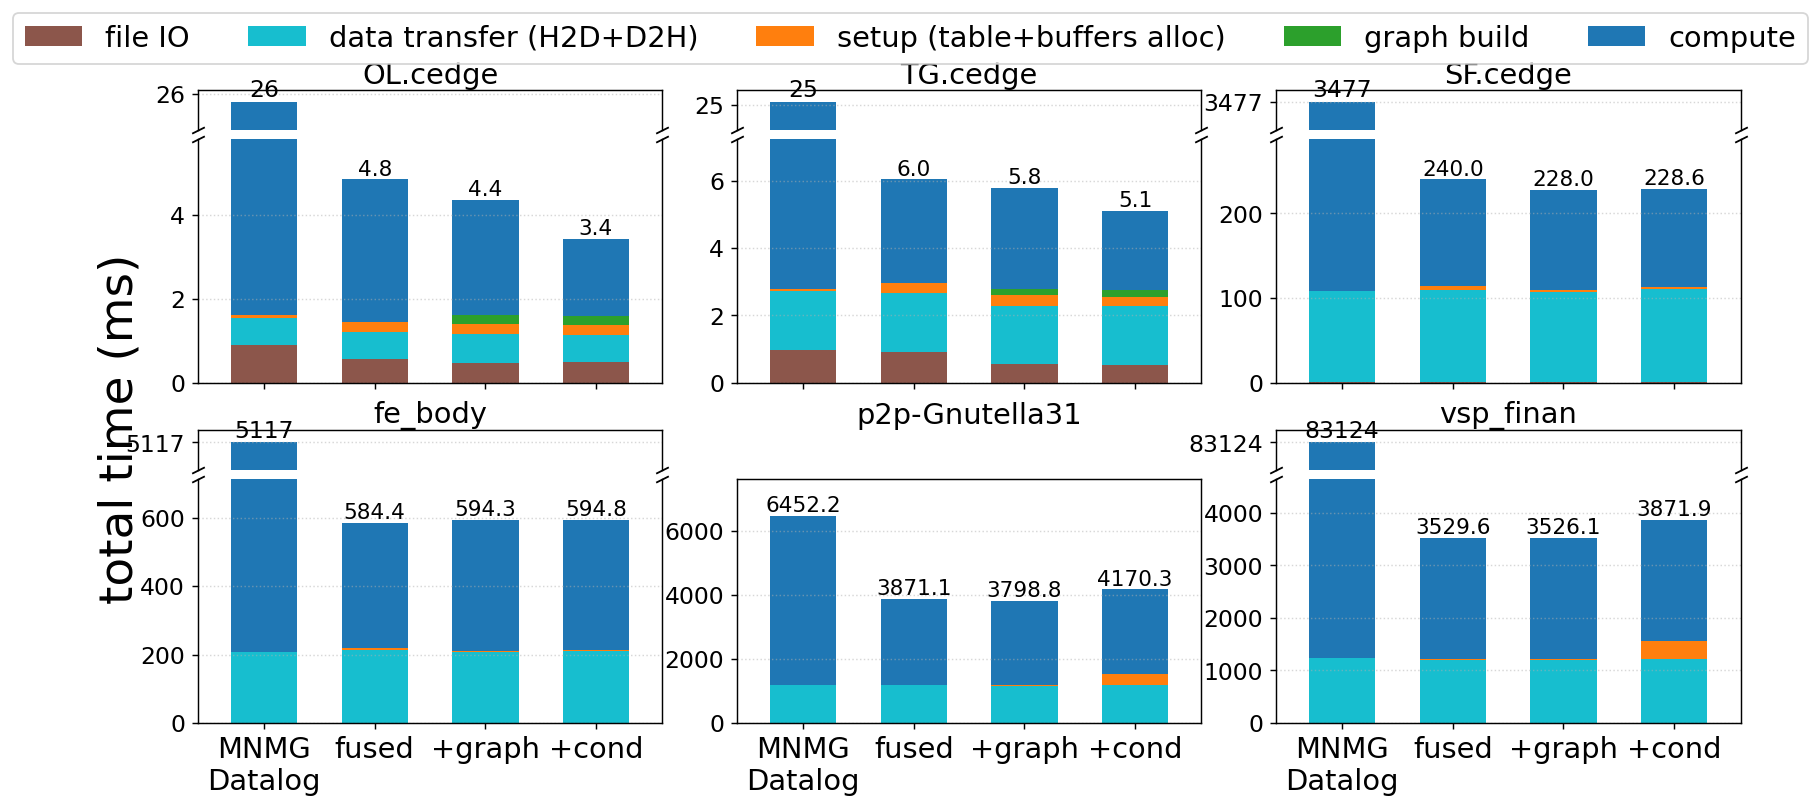
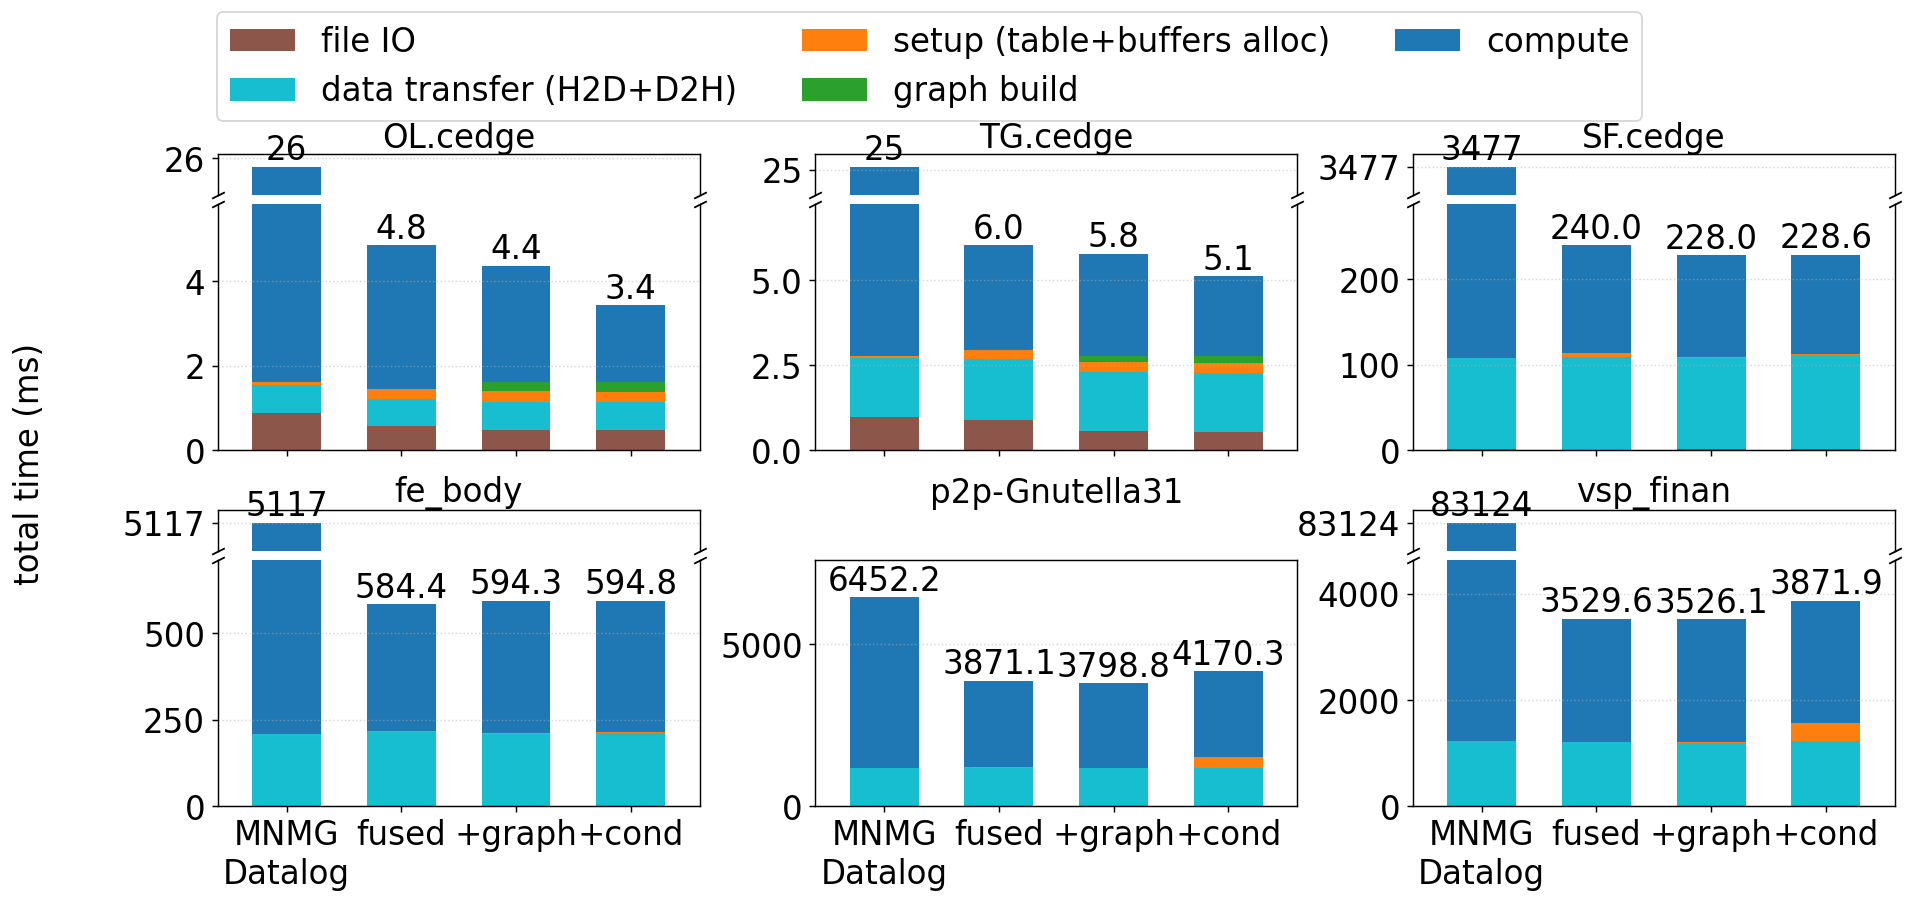
breakdown chart: uniform 18pt fonts, fix y-label/legend overlap

diff --git a/tc_benchmark/tests/plot_results.py b/tc_benchmark/tests/plot_results.py
@@ -168,13 +168,16 @@ def plot_breakdown(datasets, rows, outpath, versions):
     # versions), tight spacing to avoid whitespace.
     # Panel grid: default 3 columns (override with BD_NCOL) => a clean 2x3 for the
     # six datasets. Rendered as a full-width figure* in the paper.
+    FS = 18  # one uniform font size for every text element in this figure
     ncol_env = os.environ.get("BD_NCOL")
     dcol = int(ncol_env) if ncol_env else min(3, len(datasets))
     dcol = max(1, min(dcol, len(datasets)))
     drow = (len(datasets) + dcol - 1) // dcol
-    fig = plt.figure(figsize=(4.3 * dcol, 2.9 * drow))
-    outer = fig.add_gridspec(drow, dcol, hspace=0.16, wspace=0.16,
-                             left=0.075, right=0.995, top=0.95, bottom=0.11)
+    fig = plt.figure(figsize=(5.0 * dcol, 3.3 * drow))
+    # Leave room on the left for the (large) y-axis label + tick numbers, and at the
+    # top for the legend so neither overlaps the panels.
+    outer = fig.add_gridspec(drow, dcol, hspace=0.20, wspace=0.24,
+                             left=0.135, right=0.995, top=0.86, bottom=0.10)
 
     legend_handles = None
     for idx, d in enumerate(datasets):
@@ -207,7 +210,7 @@ def plot_breakdown(datasets, rows, outpath, versions):
         for ax in (top, bot):
             ax.set_xlim(-0.6, len(vers) - 0.4)
             ax.grid(axis="y", ls=":", alpha=0.5)
-            ax.tick_params(labelsize=13)
+            ax.tick_params(labelsize=FS)
 
         if broken:
             bot.set_ylim(0, low)
@@ -226,7 +229,7 @@ def plot_breakdown(datasets, rows, outpath, versions):
             top.plot([0, 1], [0, 0], transform=top.transAxes, **dxy)
             bot.plot([0, 1], [1, 1], transform=bot.transAxes, **dxy)
             top.annotate(f"{overall:.0f}", (0, overall), ha="center", va="bottom",
-                         fontsize=13, clip_on=False)
+                         fontsize=FS, clip_on=False)
         else:
             top.axis("off")
             bot.set_ylim(0, overall * 1.18)
@@ -235,24 +238,24 @@ def plot_breakdown(datasets, rows, outpath, versions):
             if v == "reference" and broken:
                 continue
             bot.annotate(f"{tot:.1f}", (xi, tot), ha="center", va="bottom",
-                         fontsize=12)
+                         fontsize=FS)
 
         # dataset title tight above the top slice
-        top.set_title(d, fontsize=16, pad=3)
+        top.set_title(d, fontsize=FS, pad=3)
 
         # x-axis tags only on the bottom dataset row (identical across rows).
         bot.set_xticks(xs)
         if dr == drow - 1:
-            bot.set_xticklabels([SHORT[v] for v in vers], fontsize=16)
+            bot.set_xticklabels([SHORT[v] for v in vers], fontsize=FS)
         else:
             bot.set_xticklabels([])
 
-    # shared y-axis label, pulled close to the axes
-    fig.supylabel("total time (ms)", fontsize=26, x=0.015)
-    # legend just above the panels
+    # shared y-axis label, placed clear of the tick numbers (large left margin above)
+    fig.supylabel("total time (ms)", fontsize=FS, x=0.03)
+    # legend above all panels, in the reserved top strip (does not overlap titles)
     if legend_handles:
-        fig.legend(*legend_handles, loc="lower center", ncol=len(PHASES),
-                   frameon=True, bbox_to_anchor=(0.5, 0.965), fontsize=16)
+        fig.legend(*legend_handles, loc="lower center", ncol=3,
+                   frameon=True, bbox_to_anchor=(0.5, 0.88), fontsize=FS)
     _save(fig, outpath)
 
 
